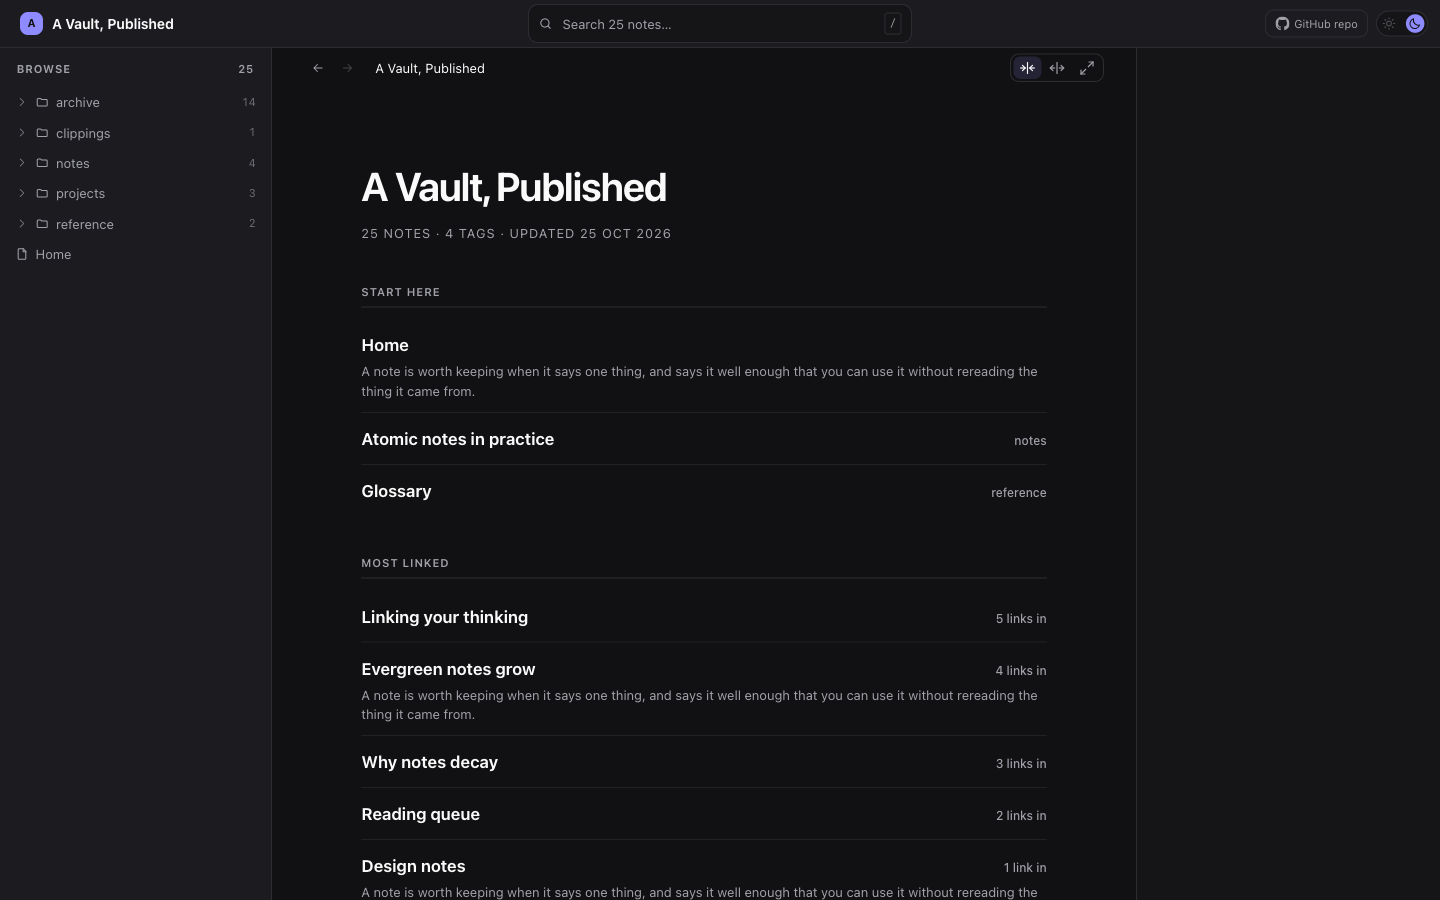
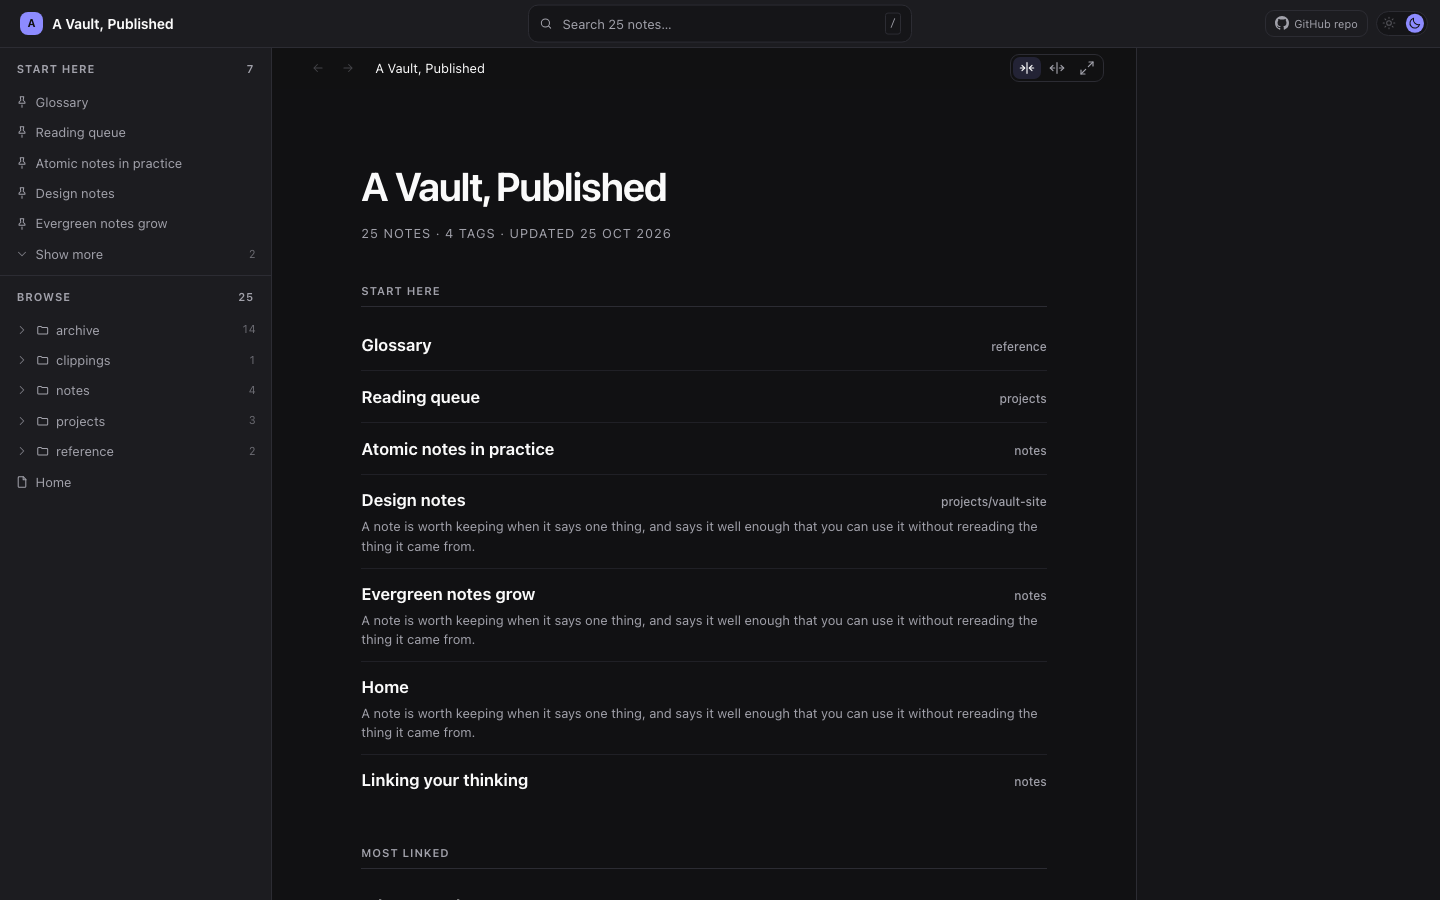
Say in the README and the example where a reader starts
Both screenshots predated the panel section and showed a left panel that no
longer exists. They are retaken from the preview harness, which renders the
real shell through the real stylesheet and the real client script, so they
are reproducible rather than a photograph of one person's vault. The front
page in the second is dark because the site says so rather than because the
machine taking the picture was -- the new setting photographing itself.

Retaking them turned up a gap in the harness rather than in the plugin: its
landing notes did not carry `pinOrder`, so the front page sorted "Start
here" by title while the panel beside it sorted by the author's numbers.
That is the exact drift one shared sort exists to prevent, reproduced in the
harness meant to catch it.

`examples/note-header.md` still told readers that `pinned` puts a note in
the jump-to panel. The README sends people to that file to learn the key, so
it was wrong in the one place it could do the most damage.

diff --git a/README.md b/README.md
@@ -2,13 +2,14 @@
 
 Publishes an Obsidian vault as a static website, rendered by Obsidian itself.
 
-![A published note: the command bar and search across the top, the vault tree
-on the left, the note in the middle, and a rail on the right carrying the
-outline, what links here and what the note is near.](media/site-note.png)
+![A published note: the command bar and search across the top; on the left a
+Start here list of the author's pinned notes above the vault tree; the note in
+the middle; and a rail on the right carrying the outline, what links here and
+what the note is near.](media/site-note.png)
 
 ![The front page the build writes when no note claims it, in dark: the note
-count and tag count, a Start here list from pinned notes, and Most linked
-ordered by how much of the vault points at
+count and tag count, the same Start here list in the same order as the panel
+beside it, and Most linked ordered by how much of the vault points at
 each.](media/site-home-dark.png)
 
 Every page is static HTML with one stylesheet and one script. Light and dark
@@ -56,6 +57,43 @@ not input, dot-folders Obsidian hides are skipped, installed dependencies
 `README.md` is not a note, and `privacy.ts` scans each rendered page for
 content a Dataview query pulled in from a note that is *not* being published —
 the failure mode that makes a publisher dangerous rather than merely buggy.
+
+## Where a reader starts
+
+A vault's front door is not its newest note and not its alphabetically first
+one. It is whatever the author would hand someone who asked where to begin,
+and only the author knows that — so it is one frontmatter key:
+
+```yaml
+---
+pinned: true
+---
+```
+
+Those notes become **Start here**: a short list held above the file tree in
+the left panel, and a section on the generated front page. The key is
+whatever **Appearance → Start here property** names, `pinned` by default.
+
+Set it to a number instead of `true` to say where a note goes:
+
+```yaml
+pinned: 1     # leads
+pinned: 2     # second
+pinned: 1.5   # between those two, without renumbering either
+```
+
+Numbered notes lead in their numbers, then everything left on `true` follows
+in title order. `pinned: 0` and anything that is not a number or `true` mean
+not pinned. One sort runs for both places the list appears, so the panel and
+the front page cannot disagree about the order — which they did when the
+order was whatever the file-path sort happened to return, and a note called
+"Begin here" sitting in `archive/` came last.
+
+The list is capped at five on screen, not five in total: pin as many as you
+like and the rest are behind a **Show more** that expands in place. It is a
+`<details>`, so it opens with JavaScript off, and the block is bounded in CSS
+— thirty pins scroll inside their own section rather than pushing the tree
+off the panel.
 
 ## Publishing a prototype as well as notes
 
@@ -159,6 +197,15 @@ and a path inside the plugin's own output folders is refused before it is read
 The file's own vault path never reaches the output. `assets/site.css` is
 published, so a banner naming the source would hand every reader of the site a
 piece of the vault's folder structure.
+
+Which of the two a visitor lands in is **Appearance → Opens in**. The default
+is their own system setting, which is what every site here has always done.
+Either explicit choice is a real override rather than a preference: it is
+written as `data-theme` on `<html>` at build time, so it holds before the
+first paint and with scripting off, and the stylesheet guards its
+`prefers-color-scheme` block against it so a site pinned to light stays light
+on a dark machine. A reader who works the switch in the bar still wins, on
+that page and every page after it.
 
 ## Locking a site behind a password
 

diff --git a/examples/note-header.md b/examples/note-header.md
@@ -27,8 +27,12 @@ that tag's section on the site's front page, which lists every note carrying
 it.
 
 `pinned` does not appear in the header at all. It puts the note under **Start
-here** in the jump-to panel, ahead of what changed recently, and it is read by
-whatever key the **Start here property** setting names.
+here**: a short list above the file tree in the left panel, and a section on
+the generated front page. It is read by whatever key the **Start here
+property** setting names.
+
+Set it to a number rather than `true` to say where the note goes — `pinned: 1`
+leads, then `pinned: 2`, and anything left on `true` follows in title order.
 
 ## What else the header shows
 
